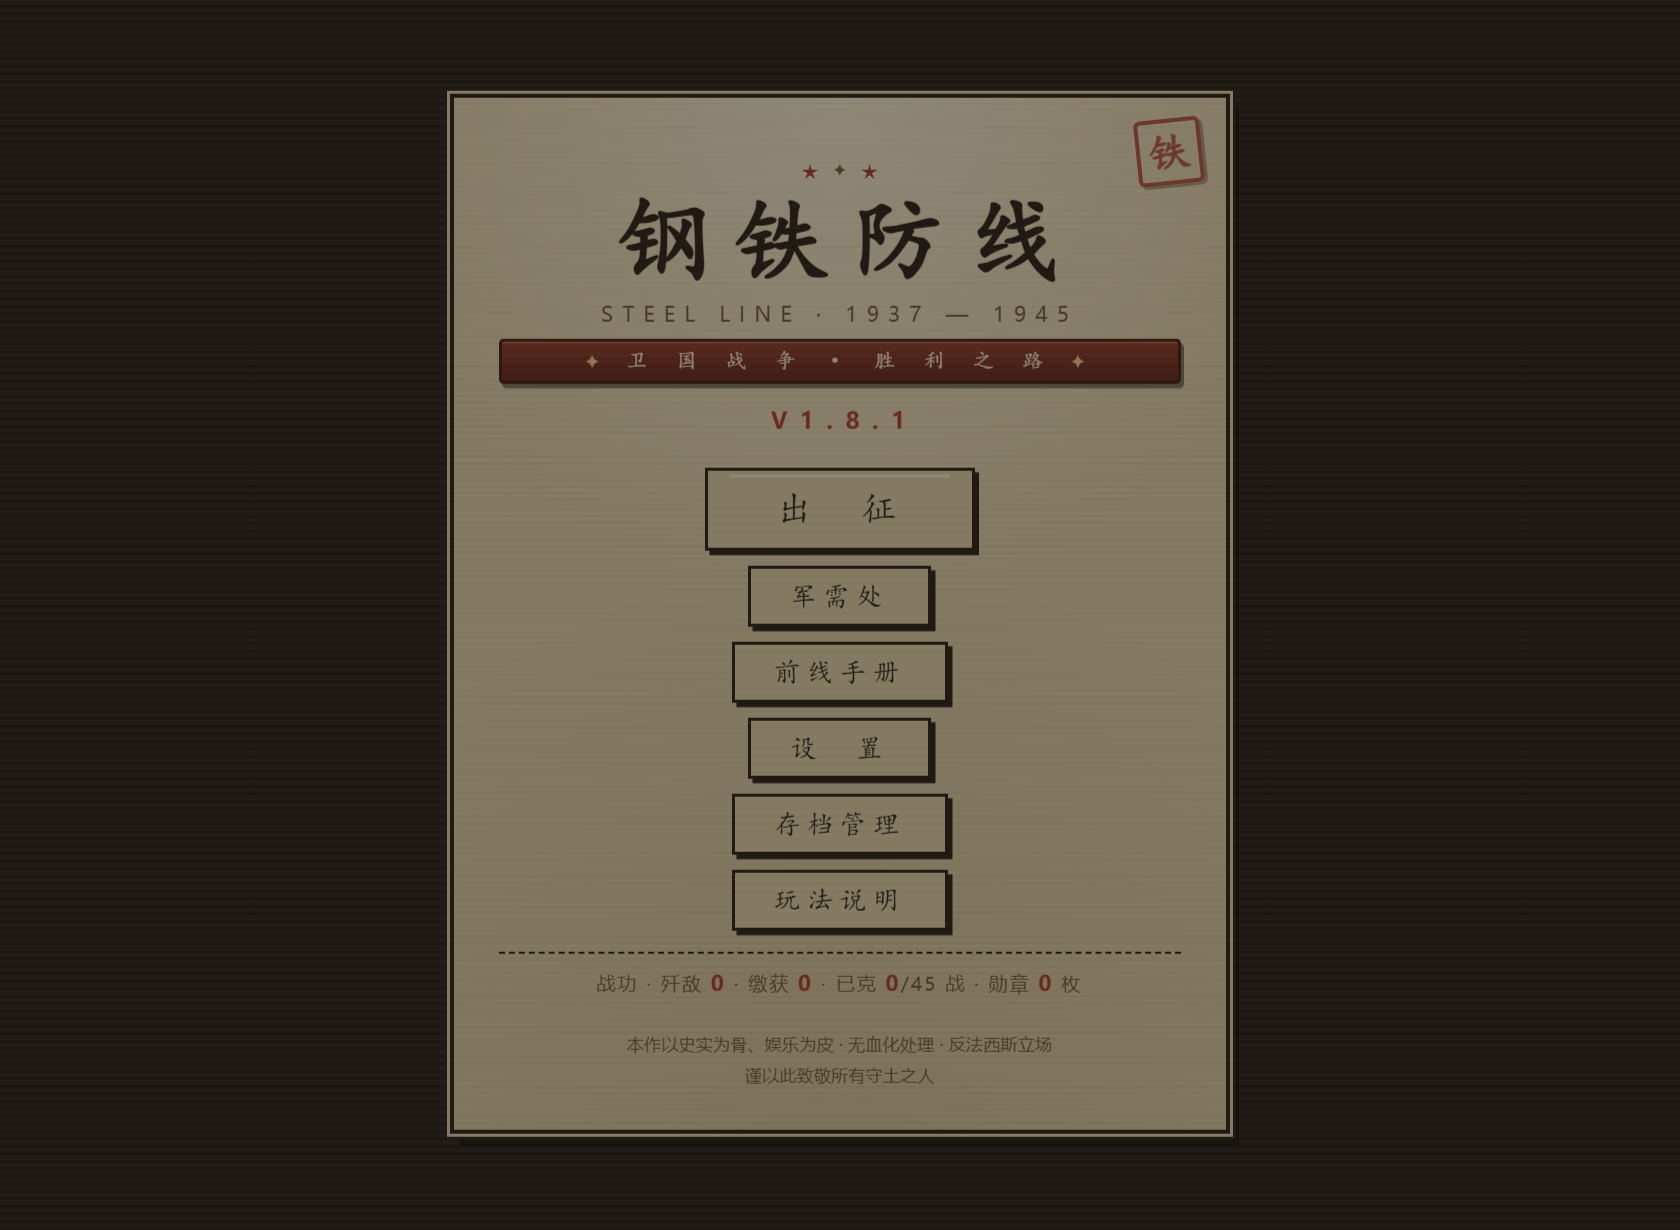
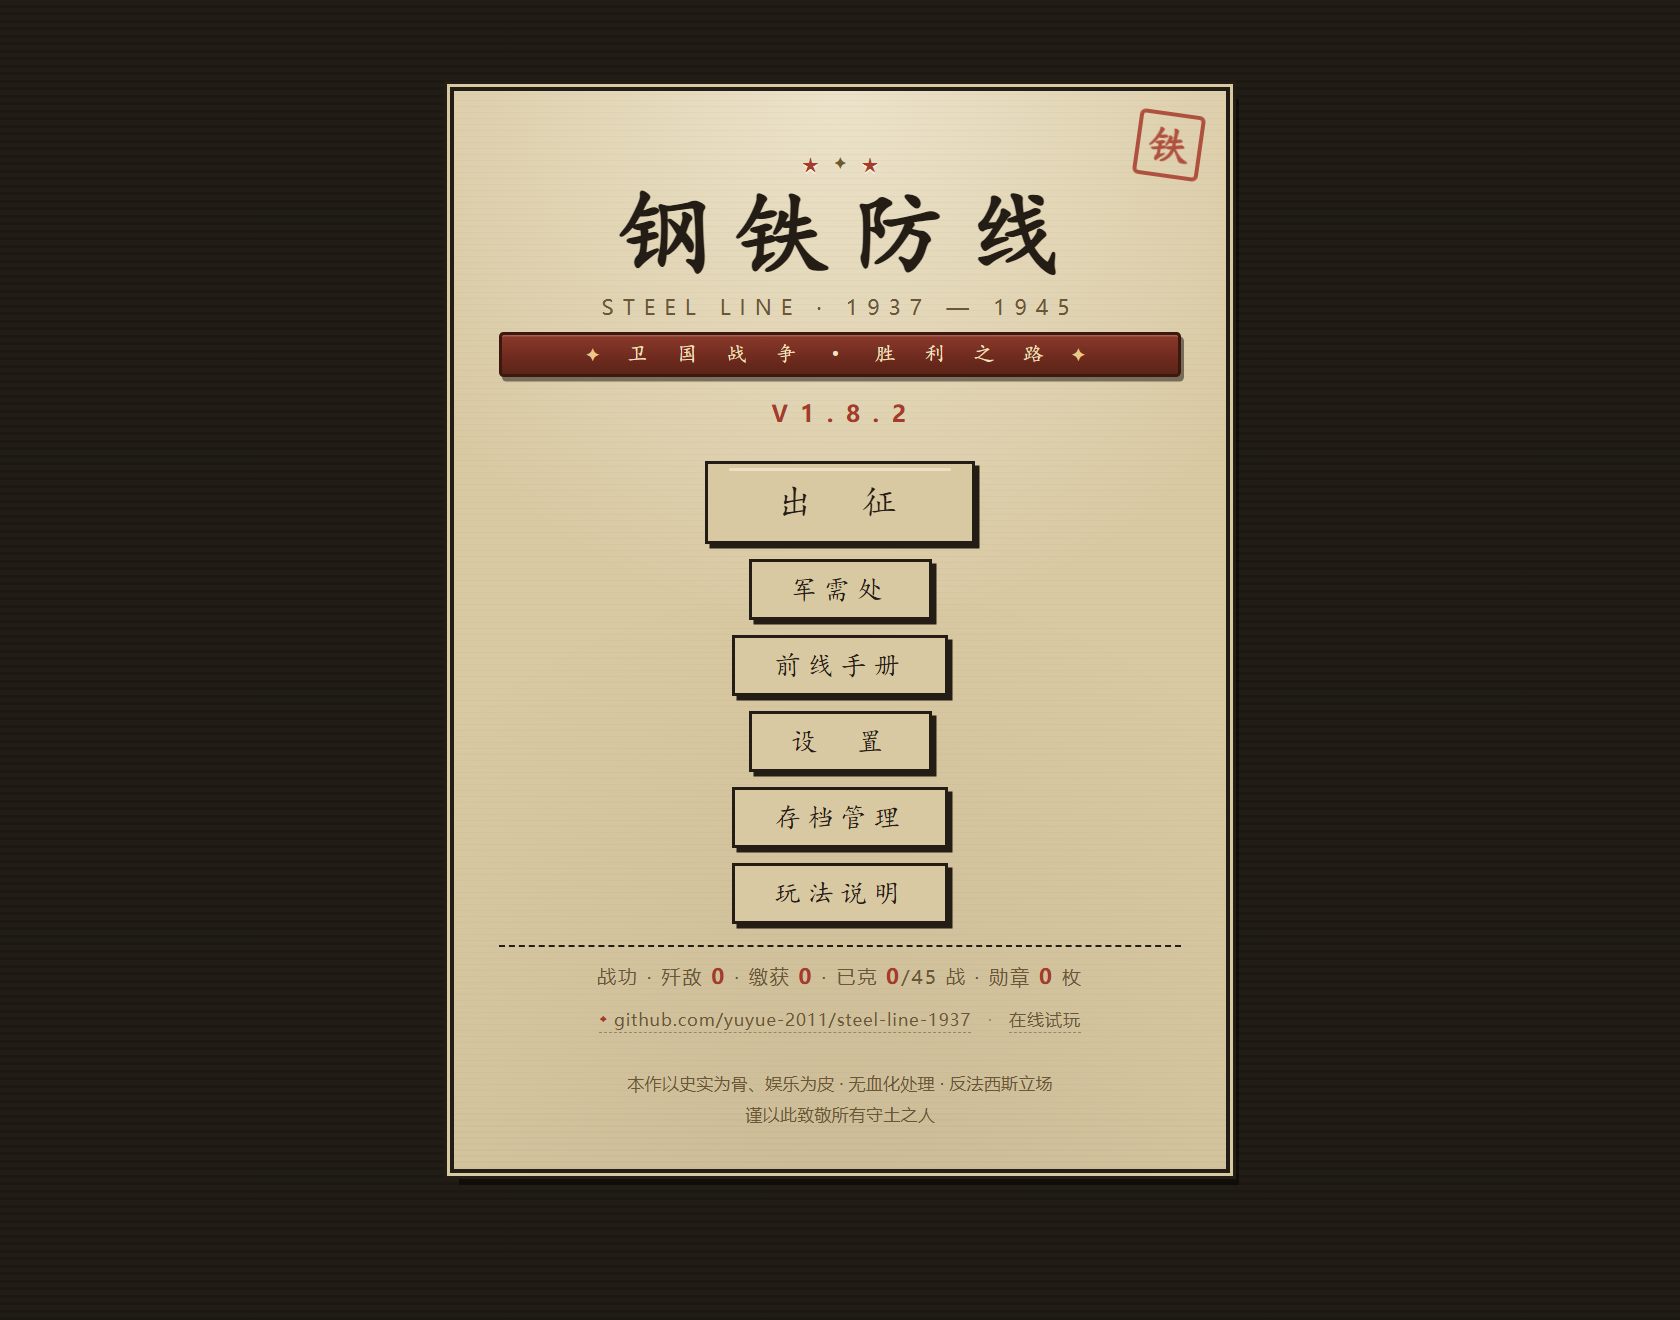
feat(V1.8.2): 标题屏加入仓库/在线试玩入口；版本升至 1.8.2；发布件重建

diff --git a/钢铁防线 V1.8.2.html b/钢铁防线 V1.8.2.html
@@ -3,7 +3,7 @@
 <head>
 <meta charset="UTF-8">
 <meta name="viewport" content="width=device-width, initial-scale=1.0">
-<title>钢铁防线 1937–1945 · 五大战场（V1.8.1 · 45战）</title>
+<title>钢铁防线 1937–1945 · 五大战场（V1.8.2 · 45战）</title>
 <style>
 /* ============ 《钢铁防线 1937–1945》 · 军用档案风格 UI ============ */
 * { margin:0; padding:0; box-sizing:border-box; -webkit-user-select:none; user-select:none; }
@@ -63,6 +63,20 @@ h2 { font-family:"KaiTi","STKaiti","Kaiti SC","SimKai",serif; font-size:28px; le
 .btn:active { transform:translate(2px,2px); box-shadow:1px 1px 0 #241d15; }
 .btn.big { font-size:24px; padding:12px 46px; }
 .foot { margin-top:22px; font-size:11.5px; color:#6b5636; line-height:1.8; }
+
+/* ---- V1.8.2：标题屏仓库 / 在线试玩入口 ---- */
+.repo-line {
+  margin-top:10px; font-size:11.5px; line-height:1.8; letter-spacing:.5px; color:#6b5636;
+}
+.repo-link {
+  color:#6b5636; text-decoration:none;
+  border-bottom:1px dashed rgba(107,86,54,.55); padding-bottom:1px;
+  transition:color .12s, border-color .12s;
+}
+.repo-link:visited { color:#6b5636; }
+.repo-link:hover { color:#a63a2b; border-bottom-color:#a63a2b; }
+.repo-ico { color:#a63a2b; font-size:9px; margin-right:4px; vertical-align:1px; }
+.repo-sep { margin:0 7px; opacity:.55; }
 
 /* ---- 战争时钟 ---- */
 .clock-line { height:6px; background:#241d15; margin:10px 2px 22px; position:relative; }
@@ -423,7 +437,7 @@ ol.help li { font-size:14px; line-height:2; margin-bottom:4px; }
       <div class="title-ribbon">
         <span class="tr-wing">✦</span><span class="tr-text">卫 国 战 争 · 胜 利 之 路</span><span class="tr-wing">✦</span>
       </div>
-      <div class="chapter">V 1 . 8 . 1</div>
+      <div class="chapter">V 1 . 8 . 2</div>
       <div class="menu">
         <button id="btn-campaign" class="btn big">出　征</button>
         <button id="btn-shop" class="btn">军需处</button>
@@ -433,6 +447,13 @@ ol.help li { font-size:14px; line-height:2; margin-bottom:4px; }
         <button id="btn-help" class="btn">玩法说明</button>
       </div>
       <div id="title-honors" class="honors">战功</div>
+      <div class="repo-line">
+        <a class="repo-link" href="https://github.com/yuyue-2011/steel-line-1937" target="_blank" rel="noopener noreferrer"
+           title="源码与更新日志（GitHub）"><span class="repo-ico">◆</span>github.com/yuyue-2011/steel-line-1937</a>
+        <span class="repo-sep">·</span>
+        <a class="repo-link" href="https://yuyue-2011.github.io/steel-line-1937/" target="_blank" rel="noopener noreferrer"
+           title="在线试玩（GitHub Pages）">在线试玩</a>
+      </div>
       <div class="foot">本作以史实为骨、娱乐为皮 · 无血化处理 · 反法西斯立场<br>谨以此致敬所有守土之人</div>
     </div>
   </div>
@@ -5522,7 +5543,7 @@ function buildClock(){
       '<div class="m-date">DLC · 时间线插槽</div>' +
       '<div class="m-title">后续战役 · 敬请期待</div>' +
       '<div class="m-sub">敦刻尔克 1940.5 · 比尔哈凯姆 · 常德 1943.11 · 科希马 · 衡阳 · 阿纳姆 · 南洋孤军…… 新战线正在勘察</div>' +
-      '<div class="m-state"><span class="diff-tag">V1.8.1 敬请期待</span></div>';
+      '<div class="m-state"><span class="diff-tag">V1.8.2 敬请期待</span></div>';
     wrap.appendChild(tea);
   }
   $('btn-clock-shop').addEventListener('click', () => openShop('clock'));

diff --git a/index.html b/index.html
@@ -3,7 +3,7 @@
 <head>
 <meta charset="UTF-8">
 <meta name="viewport" content="width=device-width, initial-scale=1.0">
-<title>钢铁防线 1937–1945 · 五大战场（V1.8.1 · 45战）</title>
+<title>钢铁防线 1937–1945 · 五大战场（V1.8.2 · 45战）</title>
 <link rel="stylesheet" href="style.css">
 </head>
 <body>
@@ -21,7 +21,7 @@
       <div class="title-ribbon">
         <span class="tr-wing">✦</span><span class="tr-text">卫 国 战 争 · 胜 利 之 路</span><span class="tr-wing">✦</span>
       </div>
-      <div class="chapter">V 1 . 8 . 1</div>
+      <div class="chapter">V 1 . 8 . 2</div>
       <div class="menu">
         <button id="btn-campaign" class="btn big">出　征</button>
         <button id="btn-shop" class="btn">军需处</button>
@@ -31,6 +31,13 @@
         <button id="btn-help" class="btn">玩法说明</button>
       </div>
       <div id="title-honors" class="honors">战功</div>
+      <div class="repo-line">
+        <a class="repo-link" href="https://github.com/yuyue-2011/steel-line-1937" target="_blank" rel="noopener noreferrer"
+           title="源码与更新日志（GitHub）"><span class="repo-ico">◆</span>github.com/yuyue-2011/steel-line-1937</a>
+        <span class="repo-sep">·</span>
+        <a class="repo-link" href="https://yuyue-2011.github.io/steel-line-1937/" target="_blank" rel="noopener noreferrer"
+           title="在线试玩（GitHub Pages）">在线试玩</a>
+      </div>
       <div class="foot">本作以史实为骨、娱乐为皮 · 无血化处理 · 反法西斯立场<br>谨以此致敬所有守土之人</div>
     </div>
   </div>

diff --git a/style.css b/style.css
@@ -57,6 +57,20 @@ h2 { font-family:"KaiTi","STKaiti","Kaiti SC","SimKai",serif; font-size:28px; le
 .btn.big { font-size:24px; padding:12px 46px; }
 .foot { margin-top:22px; font-size:11.5px; color:#6b5636; line-height:1.8; }
 
+/* ---- V1.8.2：标题屏仓库 / 在线试玩入口 ---- */
+.repo-line {
+  margin-top:10px; font-size:11.5px; line-height:1.8; letter-spacing:.5px; color:#6b5636;
+}
+.repo-link {
+  color:#6b5636; text-decoration:none;
+  border-bottom:1px dashed rgba(107,86,54,.55); padding-bottom:1px;
+  transition:color .12s, border-color .12s;
+}
+.repo-link:visited { color:#6b5636; }
+.repo-link:hover { color:#a63a2b; border-bottom-color:#a63a2b; }
+.repo-ico { color:#a63a2b; font-size:9px; margin-right:4px; vertical-align:1px; }
+.repo-sep { margin:0 7px; opacity:.55; }
+
 /* ---- 战争时钟 ---- */
 .clock-line { height:6px; background:#241d15; margin:10px 2px 22px; position:relative; }
 .clock-line i { position:absolute; left:0; top:0; height:6px; background:#a63a2b; width:0; transition:width .6s; }

diff --git a/game.js b/game.js
@@ -1441,7 +1441,7 @@ function buildClock(){
       '<div class="m-date">DLC · 时间线插槽</div>' +
       '<div class="m-title">后续战役 · 敬请期待</div>' +
       '<div class="m-sub">敦刻尔克 1940.5 · 比尔哈凯姆 · 常德 1943.11 · 科希马 · 衡阳 · 阿纳姆 · 南洋孤军…… 新战线正在勘察</div>' +
-      '<div class="m-state"><span class="diff-tag">V1.8.1 敬请期待</span></div>';
+      '<div class="m-state"><span class="diff-tag">V1.8.2 敬请期待</span></div>';
     wrap.appendChild(tea);
   }
   $('btn-clock-shop').addEventListener('click', () => openShop('clock'));

diff --git a/半归档清单.md b/半归档清单.md
@@ -1,6 +1,6 @@
 # 《钢铁防线 STEEL LINE 1937–1945》半归档清单
 
-> 版本：**V1.8.1（五大战场·45战版）** · 冻结日期：2026-11-08（V1.8.1 修订轮重新开档后冻结）
+> 版本：**V1.8.2（五大战场·45战版）** · 冻结日期：2026-11-14（V1.8.2 修订轮重新开档后冻结）
 > 形态：纯前端单页游戏（HTML5 Canvas + 原生 JS，零依赖、零外部资源、离线可玩）
 > 入口：`index.html`（建议桌面 Chrome/Edge/Firefox；localStorage 存档）
 > V7 相对 V4：战役 15 → **25 关**（新增天王星—柏林十战）、守方 22 → **32**、敌方 22 → **31**、新地形「dn 第聂伯河滩」、坦克族五形态、**设置新增：进度跳关 / 一键复原 / 自选领取缴获**、存档自动备份、修复巴甫洛夫返伤竞态崩溃。
@@ -9,6 +9,7 @@
 > V7.8 相对 V7.7：**修复战斗中打开前线手册后无法继续游戏**（showScreen 把战斗屏隐掉、返回只恢复暂停层）；**战役 25 → 35 关**（柳州反攻 → 远东风暴 → 千岛群岛 → 东京湾终战）；**「实战」难度微降**（敌军耐久 ×0.92、开局 +30 补给）；**战斗画面美化**（单位接地软阴影、行间明暗条纹与顶带天光、子弹曳光长尾与光晕、命中火花特效）。
 > V7.9 相对 V7.8：**去掉「终局之战」**——L35 改为「东京湾 · 胜利日（待续）」，预告卡恢复「受降与光复 · 敬请期待」（南京 9.9 / 台北 10.25 / 越北 / 南洋孤军……）；**按真实史实重排十关**（新增湘西雪峰山会战追歼 1945.5、南萨哈林库页岛战役 1945.8.11，替换原牡丹江/千岛扫尾，柳州改 6.14 史实日期）；**修复水兵生成崩溃**（ml 地形无水行时 swimmer/boat 的 row=undefined → updateEnemies 崩，V7.8 牡丹江即埋雷）——ml 关卡可显式声明 waterRows，且生成层永久兜底。
 > V8.0 相对 V7.9：**严格执行原始总计划「五大战场按真实日期穿插」**——35 关 → **45 关**：北非篇 3 战（阿拉曼盒子 42.7.2 / 阿拉姆哈勒法 42.8.31+9.5）与太平洋篇 3 战（伊鲁河口 42.8.21 / 血岭 42.9.13 / 沙洲 42.10.25）逐日插回斯大林格勒前后；西欧篇 4 战（巴斯托涅 44.12.18 / Nuts! 44.12.22 / 巴顿解围 44.12.26 / 雷马根 45.3.7）插在雅西与塞洛之间；**新地形「ds 北非沙漠」**；**35 关旧档按位序精确迁移**；预告卡恢复「后续战役 · 敬请期待」。
+> **V1.8.2 相对 V1.8.1**：标题屏（主页面）战功行下方新增「仓库地址 + 在线试玩」入口（外链，新窗口打开，附 `.repo-line` 样式）；全仓版本号升到 1.8.2；发布件同步重建为 `钢铁防线 V1.8.2.html`；README/截图（标题屏、社交预览图）随版本重拍。
 > **V1.8.1 相对 V8.0（版本号重编 + 回归修复轮）**：① **兵种解锁级号随插关重映射**（pavlov 15→20、split 16→22、ml20 17→23、su152 18→24、ppsh 19→25、looters 20→26、bs3 21→27、zis3 22→28、m120 23→32、is2 24→34、il2 25→35）——此前巴甫洛夫楼/巷战哨组/ML-20 等会在阿拉曼、瓜岛等插关提前 6~11 关出现，且 11 张简报的「新列装」标签失实；现在 `unlock` 与各自 newDef 所在关 id 严格一致。② **修复军械升级伤害重复结算**（直射/曲射在 `updateBullets`/`updateShells` 已乘 `G.dmgMul`，`damageEnemy` 内又乘一次：3 级名义 +24% 实际 +53.8%，而爆炸/地刺只 +24%）——改为统一只在 `damageEnemy` 结算。③ **修复精锐难度敌军血条/盾条溢出条框 30%**（`frac` 未钳上限且分母用基础 hp，改用 `e.maxHp`）。④ 黄蜂自行火炮文案与实测对齐（直射够得着但费时，曲射/伊尔-2 更快）。⑤ 图鉴数值串去重（PTRD/BS-3/ZiS-3 整句重复、ML-20/SU-152/120迫/IS-2 双行重叠、水兵班/波波沙冗余、舟艇兵两条跃障、巴甫洛夫耐久两次）。⑥ 兵种卡按数量收窄（32 张不再把 HUD 撑成三行）。⑦ `drawEn` 满血行头判定去掉魔数 269、重伤冒烟改用 `maxHp`、`makeIcon` 加 try/finally（单张贴图异常不再污染全部图标）；调试接口 `SAVE` 改取值器。⑧ 清单编号与实测对齐（西欧篇 29-33、胜利之路 39-45、波数 3-5）。
 
 ---
@@ -139,7 +140,7 @@ steel-line/
 ├── data.js      # 纯数据：DEF/EN/DEF_ORDER/EN_ORDER/DIFFS/UPGRADES/LEVELS/defStats/enStats
 ├── sprites.js   # 全部像素矢量贴图：地形(静态缓存+动态层)、单位、特效、图标工厂 makeIcon
 ├── game.js      # 引擎：状态机/波次/战斗判定/难度/存档+备份/设置/渲染循环/音频
-└── 钢铁防线 V1.8.1.html   # 发布件：把上述 5 个文件内联成一页（双击即玩，无需同目录资源）
+└── 钢铁防线 V1.8.2.html   # 发布件：把上述 5 个文件内联成一页（双击即玩，无需同目录资源）
 ```
 
 - 加载顺序：data → sprites → game（sprites 运行时引用 G/SET，启动前不触碰）
@@ -210,7 +211,7 @@ SET  = { quality, bars, fpsCap, fx, allUnlock }
 
 ---
 
-## 五、测试覆盖摘要（累计，至 V1.8.1）
+## 五、测试覆盖摘要（累计，至 V1.8.2）
 
 - **新机制数值实测**：SU-152 对虎 480=120×4 ✓；ML-20 一发覆盖三敌（220×2+180 边缘）✓；BS-3 对斐迪南 245≈210+边缘 ✓；ZiS-3 对 R-2 147≈126+边缘 ✓；巷战哨组反向弹命中出土工兵（340→220）✓；波波沙/缴获队（15 秒整 +15，拖住战局验证）✓；伊尔-2 整行清空三敌 ✓；R-2/黑豹/三突/斐迪南/国民掷弹兵/党卫掷弹兵全部进场无错
 - **设置新功能实测**：全关解锁开关（17 锁→0 锁→复原 17 锁）✓；解锁到第 N 关（furthest 2→跳 10→存档 9，时钟 11 亮，消息带关名）✓；已到末关时下拉显示「进度已到最后一关」✓；领取缴获（777→余额 9677、消息正确、负数报 err）✓；一键复原默认设置（画质/解锁/帧率全回默认并持久化）✓；从备份复原存档（999→回滚 100，自动重载）✓
@@ -275,6 +276,15 @@ SET  = { quality, bars, fpsCap, fx, allUnlock }
 | 全量回归 | 45 关简报 0 异常；浸泡 63 单位 0 错误；63 图标 0 坏；手册往返正常；图鉴 32+31 |
 | 终局 | L45 胜利无「下一战」、furthest=45、跳关「进度已到最后一关」、复原一致 |
 | 美化 | ds 全套新美术；通关卡勋章角徽微光；预告卡呼吸光 |
+
+### V1.8.2 轮新增测试（全部通过）
+
+| 项 | 验证 |
+|----|------|
+| 主页入口 | 标题屏「战功」行下方渲染 `.repo-line`：仓库地址 + 在线试玩两个外链，`target=_blank` + `rel=noopener`；无 JS 参与，纯静态 |
+| 版本一致性 | `index.html` 标题/章句、`game.js` 预告卡、README、本清单全部为 1.8.2；发布件内联内容与源码逐行一致 |
+| 截图重拍 | 标题屏（含新入口与 V1.8.2）与社交预览图用无头 Chrome 重拍；战场/时钟截图不显示版本号，沿用 |
+| 语法 | `node --check` 三文件通过；浏览器加载 0 控制台错误（无头 Chrome 渲染验证） |
 
 ### V1.8.1 轮新增测试（全部通过）
 
@@ -347,8 +357,8 @@ SET  = { quality, bars, fpsCap, fx, allUnlock }
 ## 九、半归档冻结说明
 
 - 本目录为**可独立运行、可分发的完整源码**，无构建步骤、无依赖安装
-- 发布件 `钢铁防线 V1.8.1.html` 由 5 个源码文件内联而成：**改动源码后必须重建**（顺序 data → sprites → game，样式内联 `<style>`），否则分发包会停在旧版
-- 冻结 = 不再主动改动；后续开发请复制为 `steel-line-v1.8.1-frozen/` 后继续
+- 发布件 `钢铁防线 V1.8.2.html` 由 5 个源码文件内联而成：**改动源码后必须重建**（顺序 data → sprites → game，样式内联 `<style>`），否则分发包会停在旧版
+- 冻结 = 不再主动改动；后续开发请复制为 `steel-line-v1.8.2-frozen/` 后继续
 - 建议归档时附带本清单与 45 关全通截图（任选难度）
 
 *谨以此致敬所有守土之人。*

diff --git a/README.md b/README.md
@@ -10,7 +10,7 @@
 | | |
 |---|---|
 | 🎮 在线试玩 | https://yuyue-2011.github.io/steel-line-1937/ |
-| ⬇ 单文件下载 | [Releases · v1.8.1](https://github.com/yuyue-2011/steel-line-1937/releases/tag/v1.8.1)（304 KB，离线可玩） |
+| ⬇ 单文件下载 | [Releases](https://github.com/yuyue-2011/steel-line-1937/releases/latest)（`钢铁防线 V1.8.2.html`，304 KB，离线可玩） |
 | 📋 设计与测试记录 | [半归档清单.md](半归档清单.md) |
 
 ---
@@ -41,7 +41,7 @@
 
 **① 在线玩**：打开 https://yuyue-2011.github.io/steel-line-1937/
 
-**② 单文件离线版**：到 [Releases](https://github.com/yuyue-2011/steel-line-1937/releases/tag/v1.8.1) 下载 `V1.8.1.html`，双击即可，无需联网、无需同目录资源。
+**② 单文件离线版**：到 [Releases](https://github.com/yuyue-2011/steel-line-1937/releases/latest) 下载 `钢铁防线 V1.8.2.html`，双击即可，无需联网、无需同目录资源。
 
 **③ 源码运行**：克隆或下载本仓库，直接用浏览器打开 `index.html`（推荐桌面 Chrome / Edge / Firefox）。没有 `npm install`，没有 dev server。
 
@@ -134,7 +134,7 @@
 ├── data.js                 # 纯数据：守军/敌军/关卡/难度/军备/图鉴文案
 ├── sprites.js              # 像素矢量贴图：地形（离屏缓存+动态层）、单位、特效、图标工厂
 ├── game.js                 # 引擎：状态机/波次/战斗判定/难度/存档+备份/设置/渲染循环/音频
-├── 钢铁防线 V1.8.1.html    # 发布件：上述 5 个文件内联成一页
+├── 钢铁防线 V1.8.2.html    # 发布件：上述 5 个文件内联成一页
 ├── docs/                   # 截图（标题屏 / 首关 / 斯大林格勒 / 战争时钟 / 社交预览图）
 ├── LICENSE                 # MIT
 └── 半归档清单.md            # 设计、数值、修复记录与测试摘要
@@ -153,7 +153,10 @@
 
 ## 版本
 
-当前 **V1.8.1**。相对 V8.0 的修复：兵种解锁链重映射、军械伤害重复结算、精锐难度血条溢出、后期 HUD 占高、图鉴数值串去重、图标生成与满血判定的稳健性。
+当前 **V1.8.2**。
+
+- **V1.8.2**：标题屏加入仓库地址与在线试玩入口；版本号统一升到 1.8.2。
+- **V1.8.1** 相对 V8.0 的修复：兵种解锁链重映射、军械伤害重复结算、精锐难度血条溢出、后期 HUD 占高、图鉴数值串去重、图标生成与满血判定的稳健性。
 
 逐版变更、bug 修复表与测试覆盖见 [半归档清单.md](半归档清单.md)。
 
